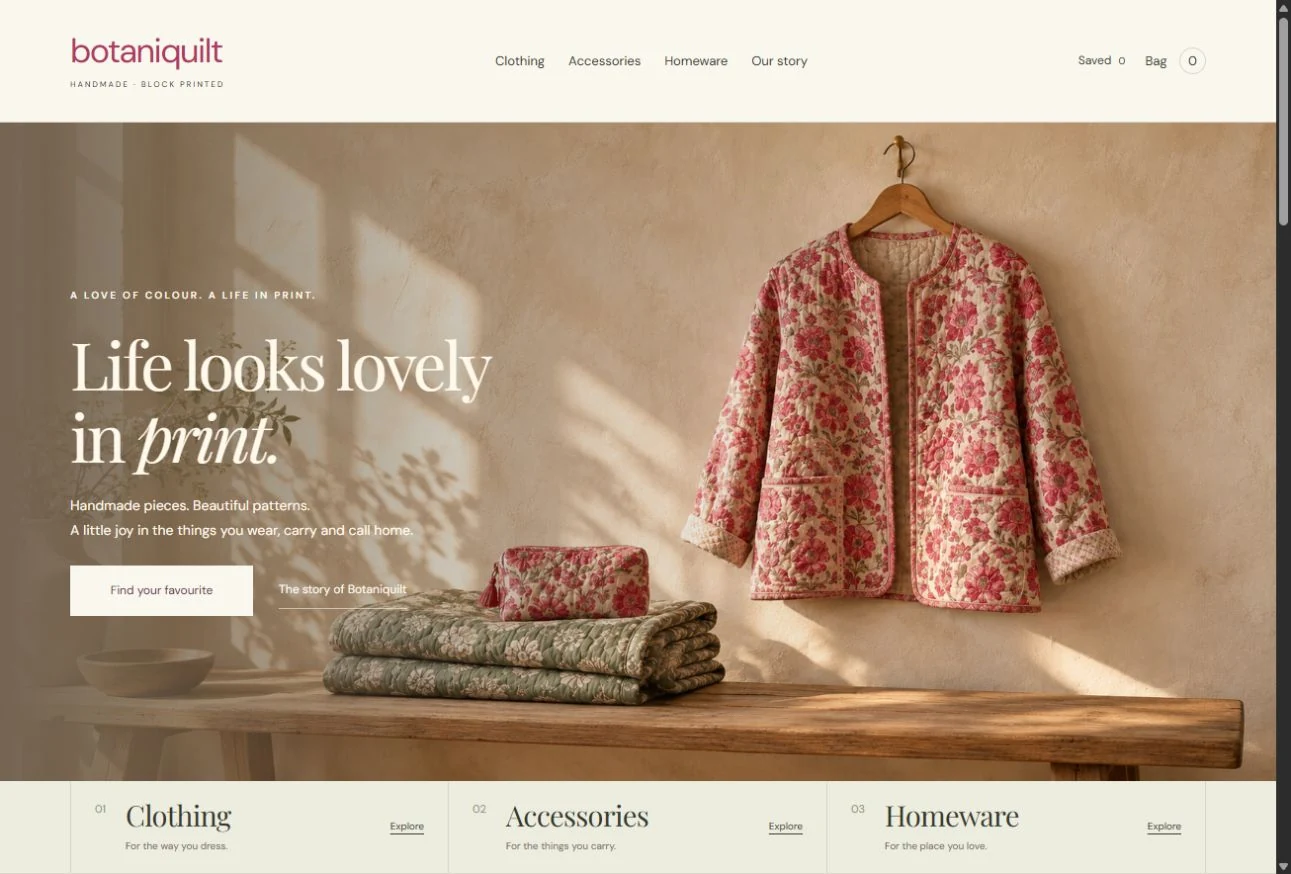
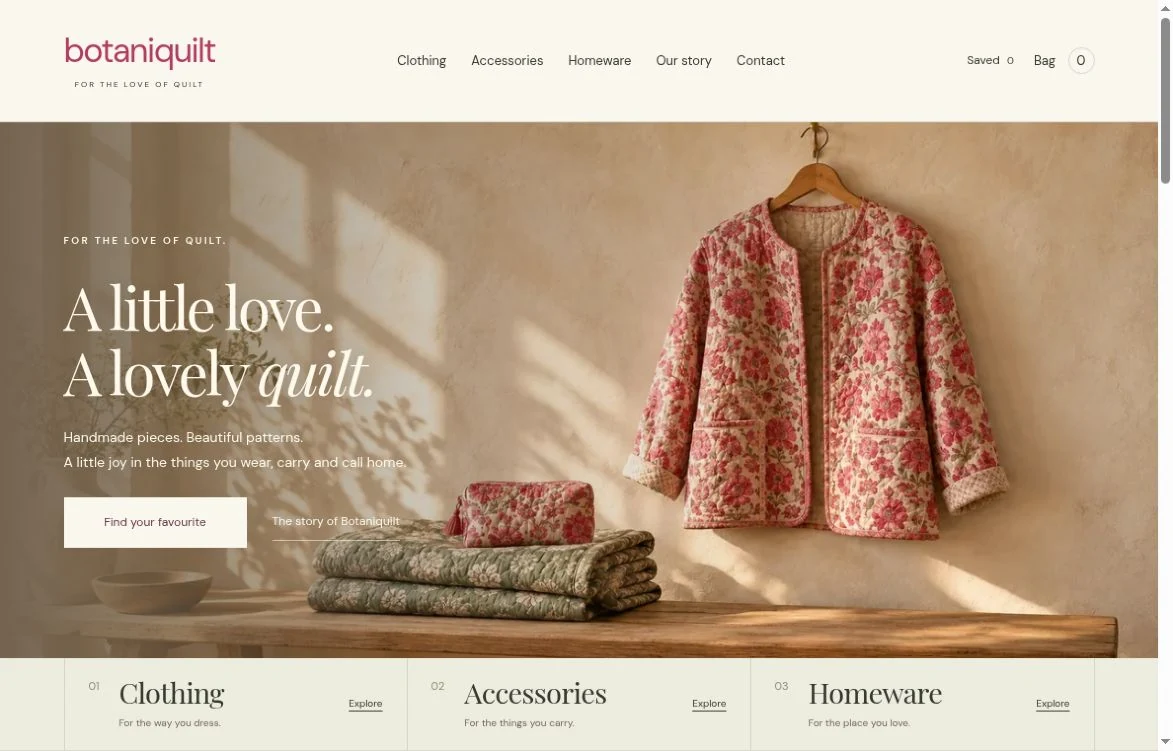
Refresh Botaniquilt capture with current quilt storefront

Changed region(s): [[0.0, 0.0, 1.0, 1.0], [0.3376, 0.0613, 0.6752, 0.0919], [0.8286, 0.0613, 0.9207, 0.0919]]

diff --git a/lib/project-captures.ts b/lib/project-captures.ts
@@ -45,14 +45,14 @@ export const projectCaptureSets: Record<string, ProjectCaptureSet> = {
   ]
 },
 "botaniquilt": {
-  "capturedAt": "2026-10-26",
+  "capturedAt": "2026-10-28",
   "sourceLabel": "Saved website preview captures",
   "images": [
     {
       "src": "/portfolio/2026-10-28/botaniquilt-home.webp",
-      "description": "Botaniquilt storefront homepage with the print-led textile visual direction and collection navigation",
-      "width": 1291,
-      "height": 874
+      "description": "Botaniquilt storefront homepage showing quilted clothing, homeware and collection navigation",
+      "width": 1173,
+      "height": 751
     }
   ]
 },
